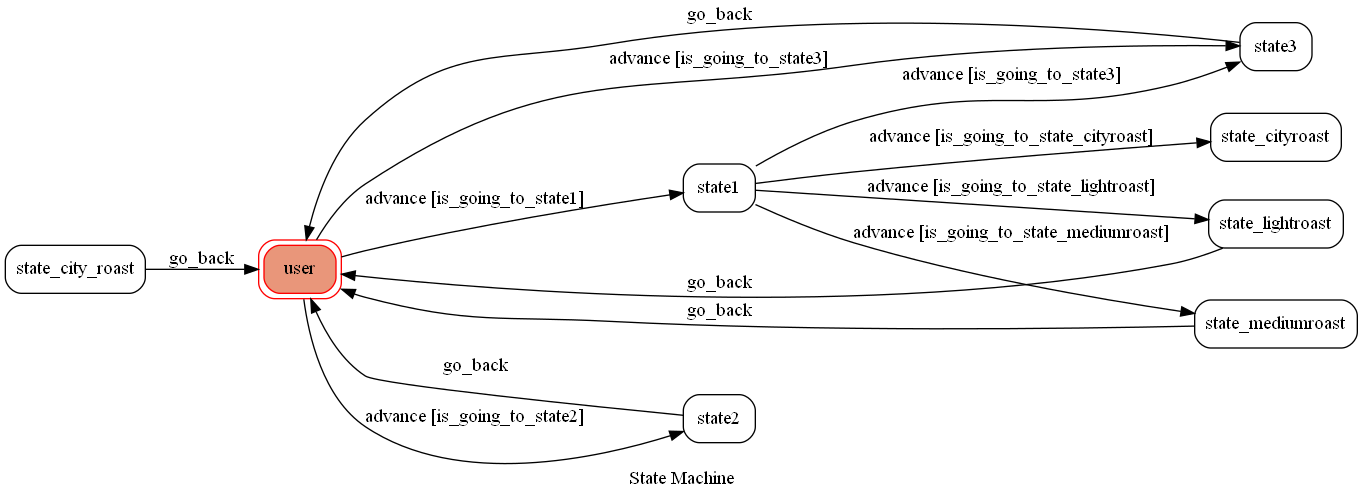
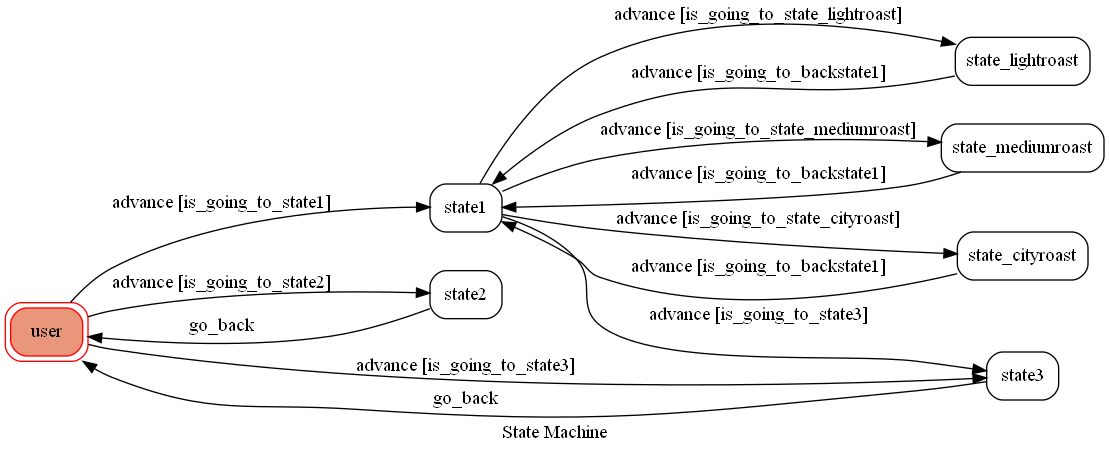
add is gonib back state1

diff --git a/fsm.py b/fsm.py
@@ -31,6 +31,10 @@ class TocMachine(GraphMachine):
         text = event.message.text
         return text.lower() == "深焙"
 
+    def is_going_to_backstate1(self, event):
+        text = event.message.text
+        return text.lower() == "ok"
+
     def on_enter_state1(self, event):
         print("I'm entering state1")
 
@@ -66,21 +70,21 @@ class TocMachine(GraphMachine):
 
         reply_token = event.reply_token
         send_text_message(reply_token, "咖啡豆16g\n水溫:92~94度\n研磨度:二砂糖粗細\n悶蒸:30~50秒(視排氣狀況)\n手法:中小水由中心向外慢繞至150cc，待濾杯中液體流下一半後再注水至240cc")
-        self.go_back()
+        #self.go_back()
 
     def on_enter_state_mediumroast(self, event):
         print("I'm entering state_lightroast")
 
         reply_token = event.reply_token
         send_text_message(reply_token, "咖啡豆16g\n水溫:88~90度\n研磨度:二砂糖粗細\n悶蒸:20~40秒\n手法:中水由中心向外慢繞至150cc，待濾杯中液體流下一半後再中心注大水至240cc")
-        self.go_back()
+        #self.go_back()
 
     def on_enter_state_cityroast(self, event):
         print("I'm entering state_cityroast")
 
         reply_token = event.reply_token
         send_text_message(reply_token, "咖啡豆16g\n水溫:85~88度\n研磨度:二砂糖粗細略粗\n悶蒸:20秒\n手法:中水由中心注水至150cc，待濾杯中液體流下一半後再中心中水往外繞圈至240cc")
-        self.go_back()
+        #self.go_back()
 
     def on_exit_state_lightroast(self):
         print("Leaving state_lightroast")

diff --git a/print.py b/print.py
@@ -51,7 +51,8 @@ machine = GraphMachine(
             "dest": "state3",
             "conditions": "is_going_to_state3",
         },
-        {"trigger": "go_back", "source": ["state_city_roast","state_lightroast","state_mediumroast","state2", "state3"], "dest": "user"},
+        {"trigger": "go_back", "source": ["state2", "state3"], "dest": "user"},
+        {"trigger": "advance", "source": ["state_cityroast","state_lightroast","state_mediumroast"], "dest": "state1","conditions": "is_going_to_backstate1"},
     ],
     initial="user",
     auto_transitions=False,

diff --git a/app.py b/app.py
@@ -58,7 +58,8 @@ machine = TocMachine(
             "dest": "state3",
             "conditions": "is_going_to_state3",
         },
-        {"trigger": "go_back", "source": ["state_cityroast","state_mediumroast","state_lightroast","state2", "state3"], "dest": "user"},
+        {"trigger": "go_back", "source": ["state2", "state3"], "dest": "user"},
+        {"trigger": "advance", "source": ["state_cityroast","state_lightroast","state_mediumroast"], "dest": "state1","conditions": "is_going_to_backstate1"},
     ],
     initial="user",
     auto_transitions=False,
